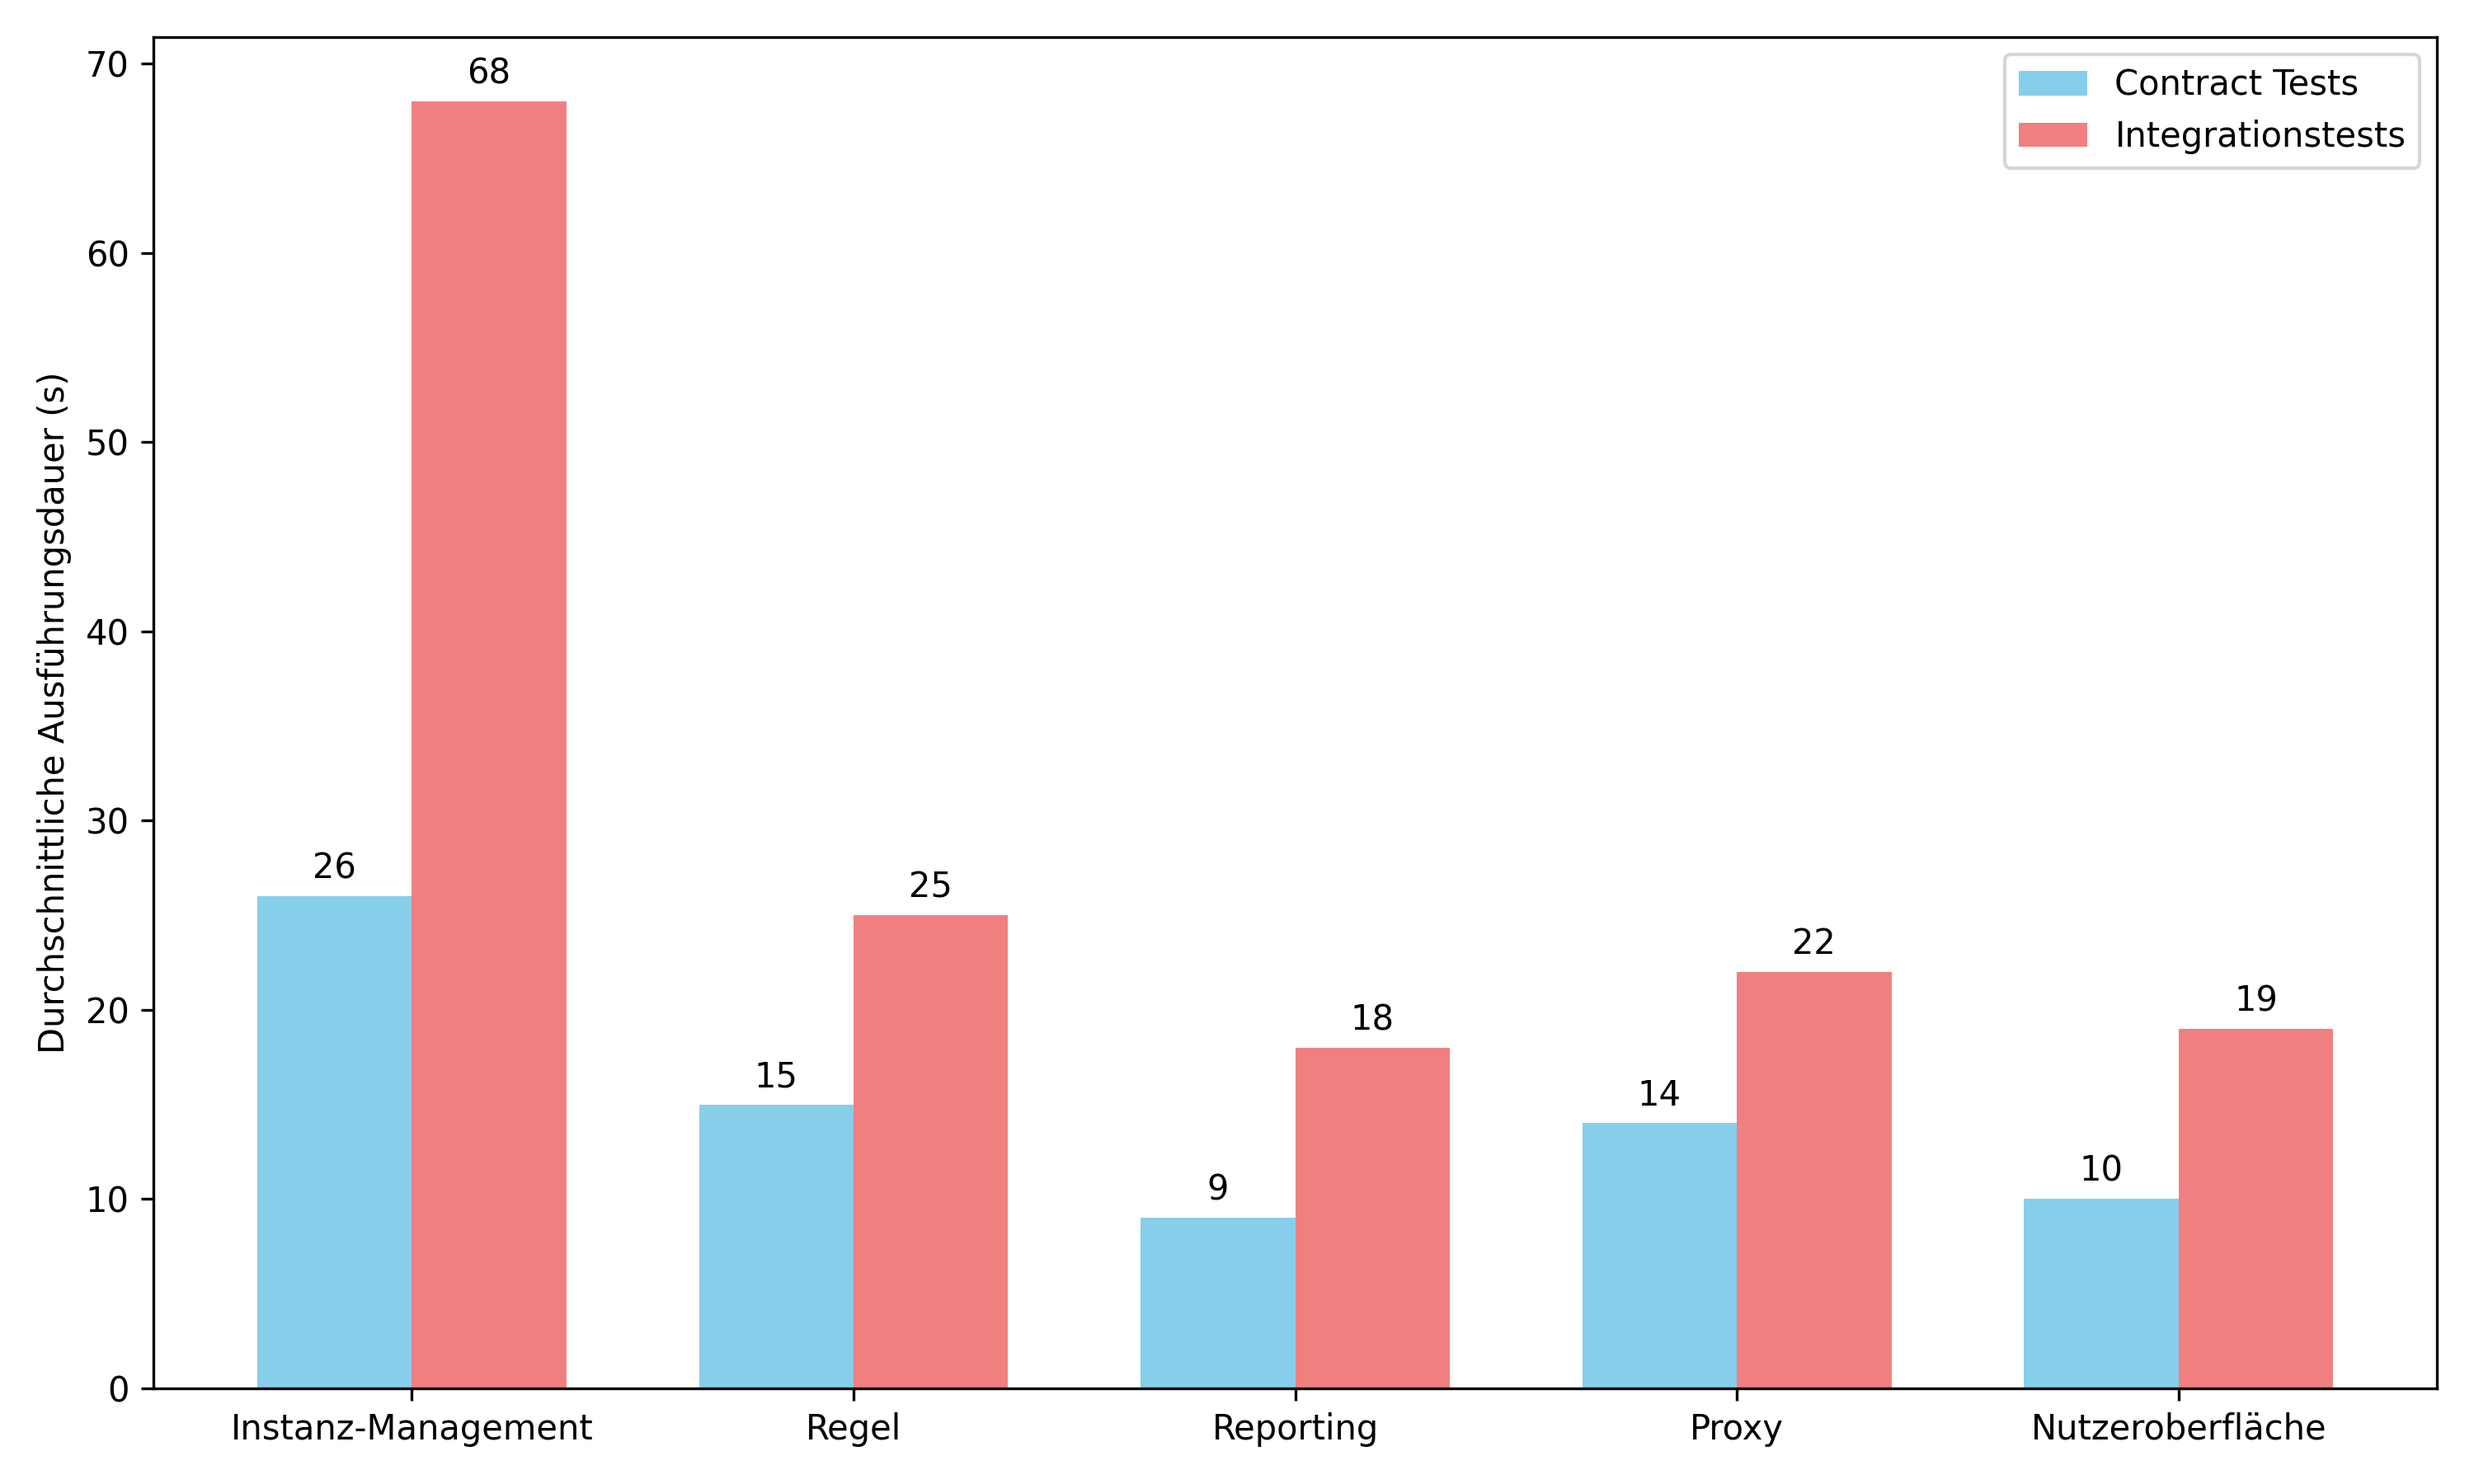
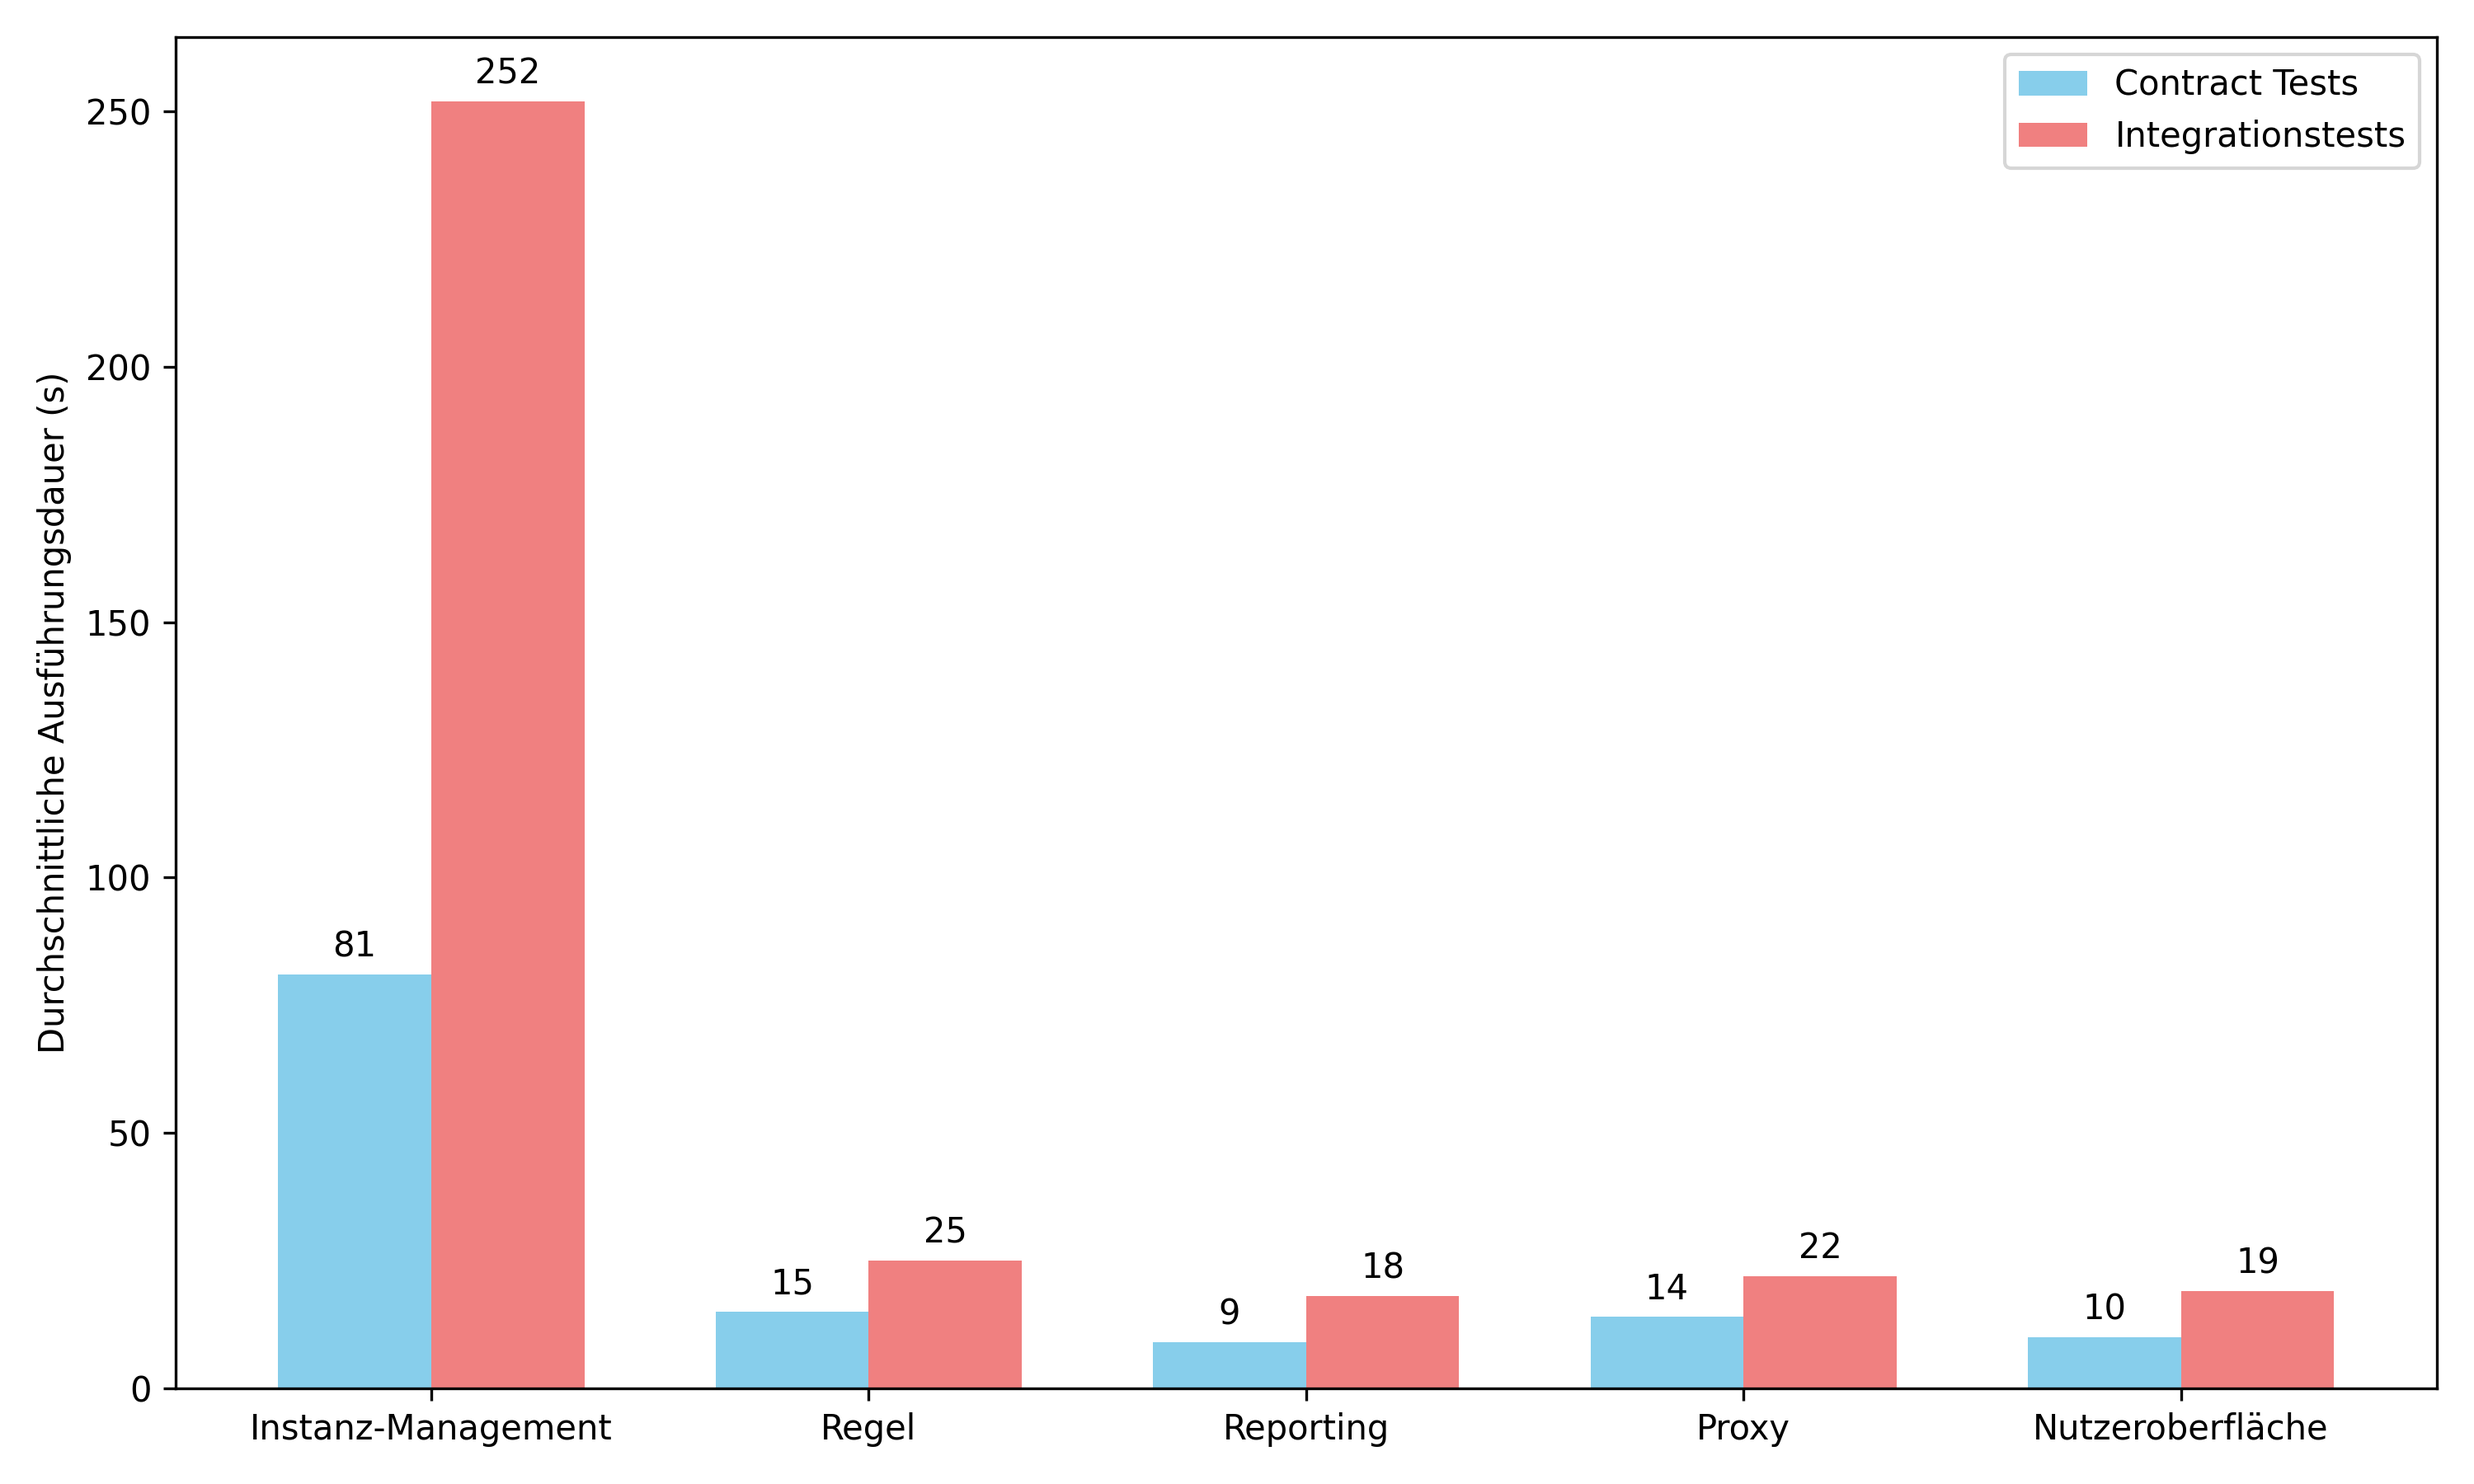
small improvements evaluation

diff --git a/content/5_evaluation.tex b/content/5_evaluation.tex
@@ -19,6 +19,7 @@ Nach abgeschlossener Änderung an einem Service wurde die jeweilige Test-Pipelin
 Dabei schlug erwartungsgemäß entweder die Ausführung der Contract Tests, da die vorgenommenen Änderungen gegen die definierten Contracts verstießen, oder der \texttt{can-i-deploy}-Schritt fehl, da die neu erstellten Contracts nicht verifiziert werden konnten.
 Die Ergebnisse dieses kontrollierten Testszenarios zeigen eindeutig, dass alle eingebauten Abweichungen von den vertraglich vereinbarten Schnittstellen durch die Contract Tests identifiziert wurden.
 Die Fehler wurden jeweils unmittelbar im Rahmen der Consumer- oder Provider-Tests erkannt, wodurch der Integrationsbruch frühzeitig sichtbar wurde.
+Bei der Analyse der Ergebnisse zeigte sich, dass die Contract Tests in der Lage sind, auch auf der Provider-Seite Fehler zu erkennen, die bei  Integrationstests nicht erst durch die Ausführung der Tests auf der Consumer-Seite sichtbar werden.
 
 Ob durch den Einsatz von Contract Testing insgesamt mehr Fehler entdeckt werden als durch herkömmliche Integrationstests, lässt sich im Rahmen dieser Arbeit jedoch nicht abschließend bewerten.
 Eine belastbare Aussage dazu würde eine längerfristige Beobachtung über mehrere Entwicklungszyklen hinweg erfordern, idealerweise mit quantitativen Vergleichsdaten über mehrere Releases oder Sprints hinweg.
@@ -32,7 +33,7 @@ Neben der Fehlererkennung ist die Effizienz ein entscheidender Aspekt beim Vergl
 Im Rahmen dieser Arbeit wurden konkrete Messungen zur Ausführungsdauer der Test-Pipelines durchgeführt, um die Auswirkungen auf den Entwicklungsprozess zu bewerten.
 
 Das Balkendiagramm in \cref{fig:testing_duration_comparison} zeigt die durchschnittlichen Ausführungsdauern der \gls{CI}-Pipelines für Contract Tests und Integrationstests für die fünf Microservices der Anwendung.
-Die Zeitangaben basieren auf jeweils zehn Einzelmessungen pro Testtyp und Microservice.
+Die Zeitangaben basieren auf jeweils zehn Einzelmessungen pro Testtyp und pro Microservice.
 Zur besseren Vergleichbarkeit wurden die Mittelwerte berechnet und auf ganze Sekunden gerundet.
 
 \begin{figure}[htbp]
@@ -48,6 +49,7 @@ Dadurch entfällt ein großer Teil des technischen Mehraufwandes, der bei klassi
 Die Unterschiede dieser zwei Test-Pipelines sind in \cref{app:test_pipelines} detailliert dargestellt.
 
 Ein wesentlicher Vorteil ergibt sich aus der Möglichkeit, Contract Tests frühzeitig und häufiger im Entwicklungszyklus auszuführen – etwa direkt beim Commit oder beim Aktualisieren eines Pull Request~\cite{cruzContractTestingAction2025}.
+Durch die Unabhängigkeit von anderen Services können Contract Tests sogar lokal auf den Entwicklerrechnern ausgeführt werden, ohne dass aufwendige Infrastruktur wie Container gestartet werden müssen.
 Während Integrationstests aufgrund der erhöhten Dauer oft erst in späteren \gls{CI}-Phasen oder gar in dedizierten Testumgebungen stattfinden~\cite{singhSoftwareTesting2011}, können Contract Tests bereits während der Entwicklung wertvolles Feedback liefern.
 
 Diese Eigenschaft ist vornehmlich im Kontext der sogenannten \textit{Cost of Failure}-Kurve relevant.

diff --git a/figures/duration_coparison.py b/figures/duration_coparison.py
@@ -6,7 +6,7 @@ services = ['Instanz-Management', 'Regel', 'Reporting', 'Proxy', 'Nutzeroberflä
 
 # Messdaten (10 Messungen je Service & Testtyp)
 contract_measurements = [
-    [83, 84, 77, 79, 80, 12, 12, 12, 12, 12],  # Instanz-Management
+    [83, 84, 77, 79, 80, 79, 84, 80, 82, 82],  # Instanz-Management
     [15, 15, 15, 15, 15, 15, 15, 15, 15, 15],  # Regel
     [9, 9, 9, 9, 9, 9, 9, 9, 9, 9],           # Reporting
     [14, 14, 14, 14, 14, 14, 14, 14, 14, 14], # Proxy
@@ -14,7 +14,7 @@ contract_measurements = [
 ]
 
 integration_measurements = [
-    [258, 260, 255, 248, 250, 20, 20, 20, 20, 20],  # Instanz-Management
+    [258, 260, 255, 248, 250, 244, 250, 259, 249, 243],  # Instanz-Management
     [25, 25, 25, 25, 25, 25, 25, 25, 25, 25],  # Regel
     [18, 18, 18, 18, 18, 18, 18, 18, 18, 18],  # Reporting
     [22, 22, 22, 22, 22, 22, 22, 22, 22, 22],  # Proxy
